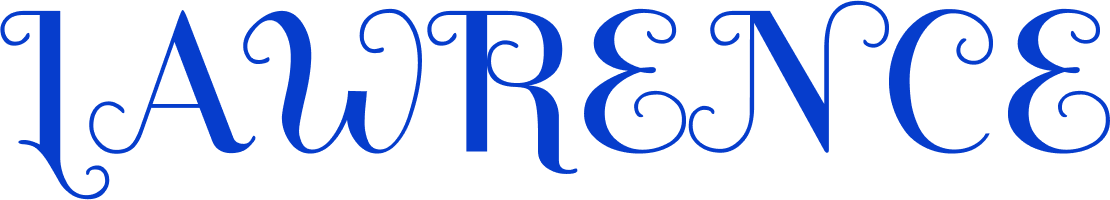
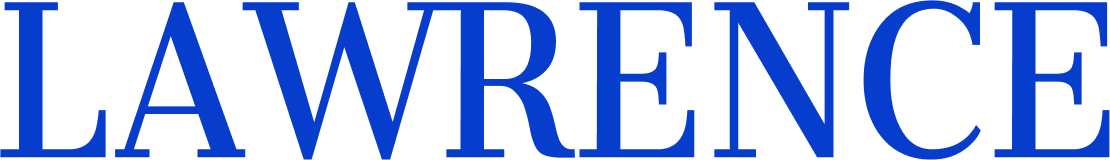
fix: minor issues homepage

diff --git a/src/pages/Homepage.vue b/src/pages/Homepage.vue
@@ -4,7 +4,7 @@ export default {
     data() {
         return {
             currentImageUrl: "/img/homepage/1.png",
-            totalImg: 14,
+            totalImg: 13,
         };
     },
     mounted() {
@@ -25,8 +25,9 @@ export default {
 
 <template>
     <div class="container">
-        <div class="name-container">
+        <div class="name-container d-flex flex-column align-items-end">
             <img class="name" :src="currentImageUrl" alt="Name" />
+            <h3 class="subtitle mt-2">- jr. full stack web developer</h3>
         </div>
     </div>
 </template>
@@ -45,6 +46,18 @@ export default {
 
     .name {
         width: 100%;
+    }
+
+    .subtitle {
+        font-size: 1.5rem;
+    }
+}
+
+@media screen and (max-width: 768px) {
+    .name-container {
+        .subtitle {
+            font-size: .8rem;
+        }
     }
 }
 </style>
